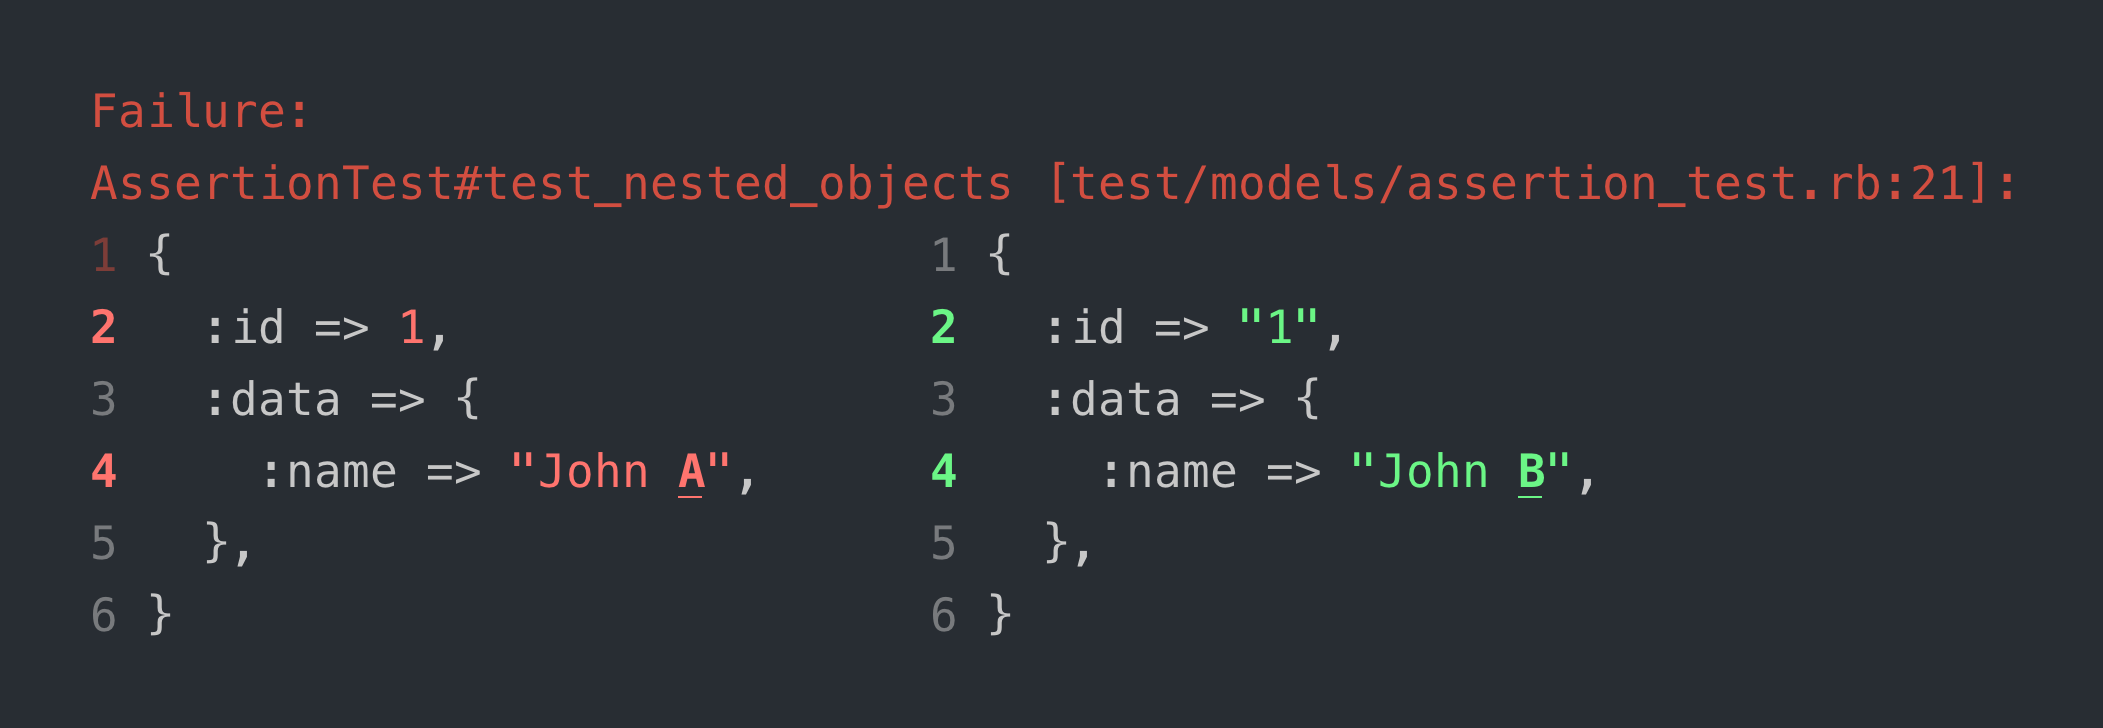
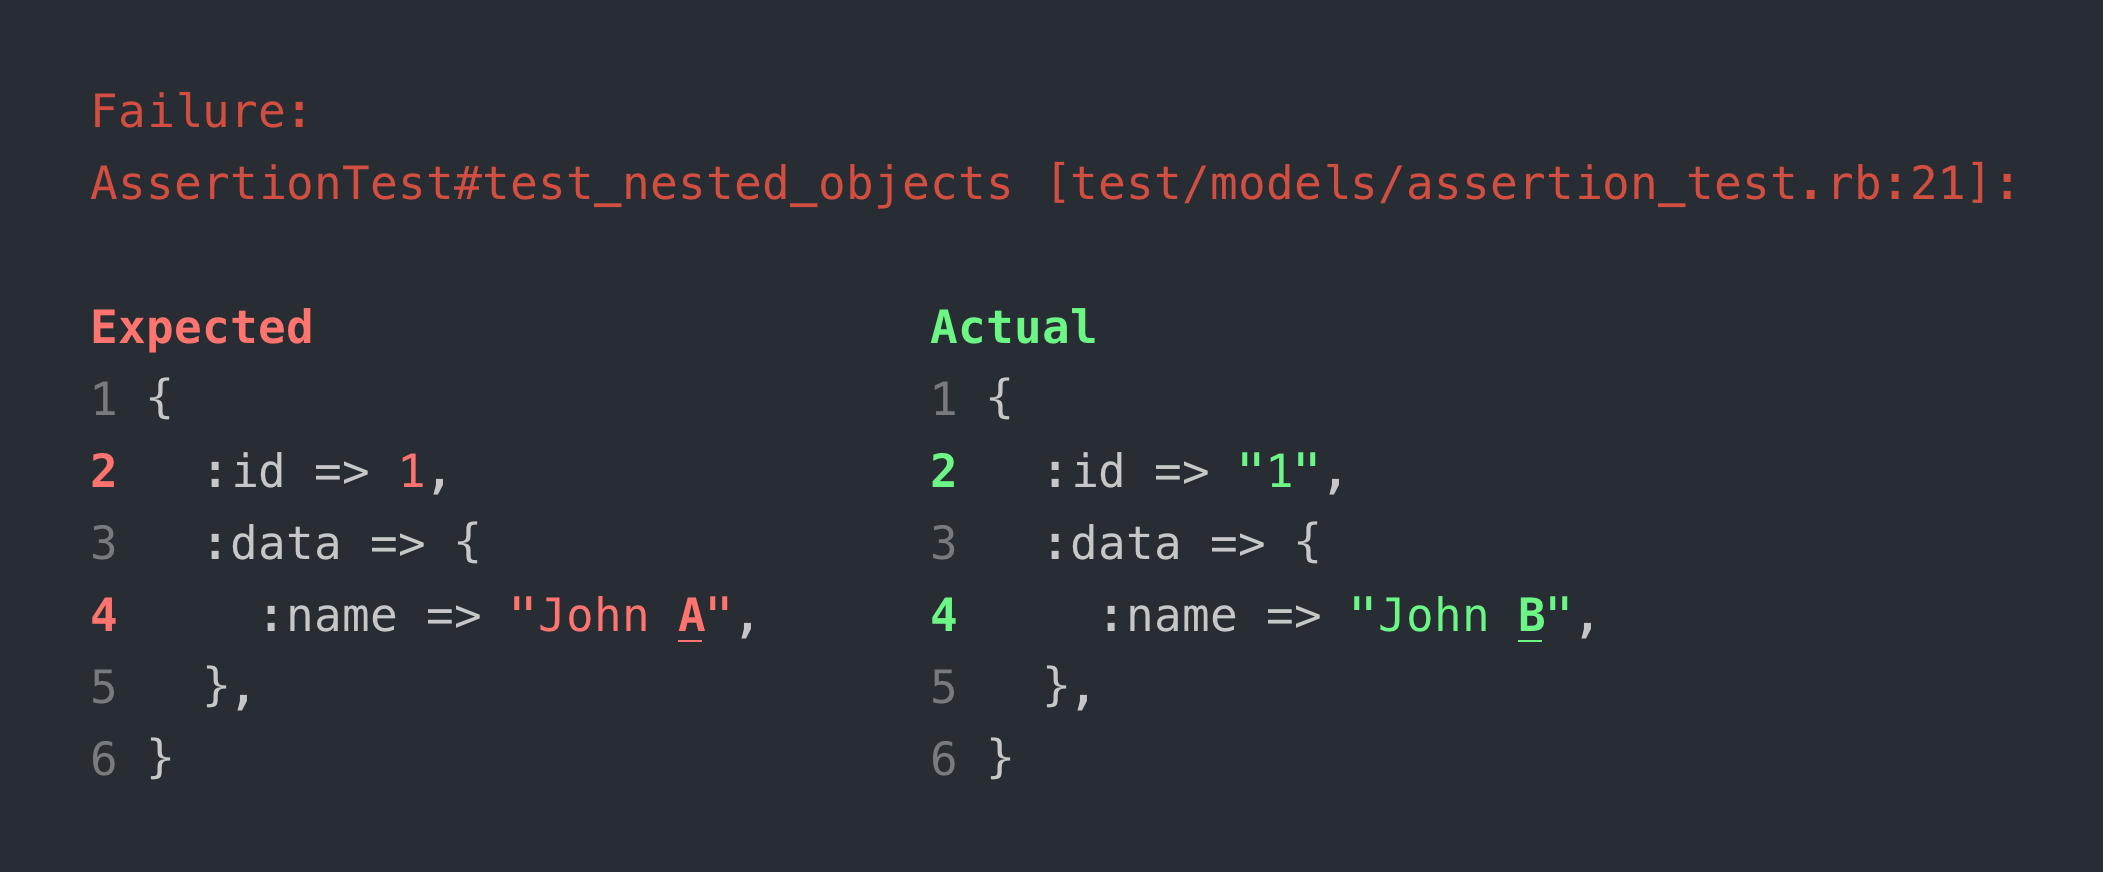
Improve output by adding `Expected` and `Actual` to the diff (#1)

diff --git a/lib/minitest/difftastic_plugin.rb b/lib/minitest/difftastic_plugin.rb
@@ -5,10 +5,44 @@ require "difftastic"
 # TODO: use refinements
 module Minitest
   module Assertions
+    MINIMUM_OFFSET = 29
+    TAB_WIDTH = 2
+
+    RED = "\e[91;1m"
+    GREEN = "\e[92;1m"
+    RESET = "\e[0m"
+
+    DIFFER = ::Difftastic::Differ.new(
+      color: :always,
+      tab_width: TAB_WIDTH,
+      syntax_highlight: :off
+    )
+
+    alias diff_original diff
+
     def diff(exp, act)
-      ::Difftastic::Differ.new(color: :always, tab_width: 2, syntax_highlight: :off).diff_objects(exp, act)
-    rescue StandardError
-      super
+      diff = DIFFER.diff_objects(exp, act)
+      offset = actual_text_offset(diff.split("\n").first)
+
+      "\n#{RED}#{"Expected".ljust(offset)} #{GREEN}Actual#{RESET}\n#{diff}"
+    rescue StandardError => e
+      puts "Minitest::DiffTastic error: #{e.inspect} (#{e.backtrace[0]})"
+      diff_original(exp, act)
+    end
+
+    private
+
+    def strip_ansi_formatting(string)
+      string.to_s.gsub(/\e\[[0-9;]*m/, "")
+    end
+
+    def actual_text_offset(line)
+      stripped_line = strip_ansi_formatting(line)
+      _lhs, rhs = stripped_line.split(/\s{#{TAB_WIDTH},}/, 2)
+
+      offset = stripped_line.index("#{" " * TAB_WIDTH}#{rhs}") + TAB_WIDTH - 1
+
+      [MINIMUM_OFFSET, offset].max
     end
   end
 end
